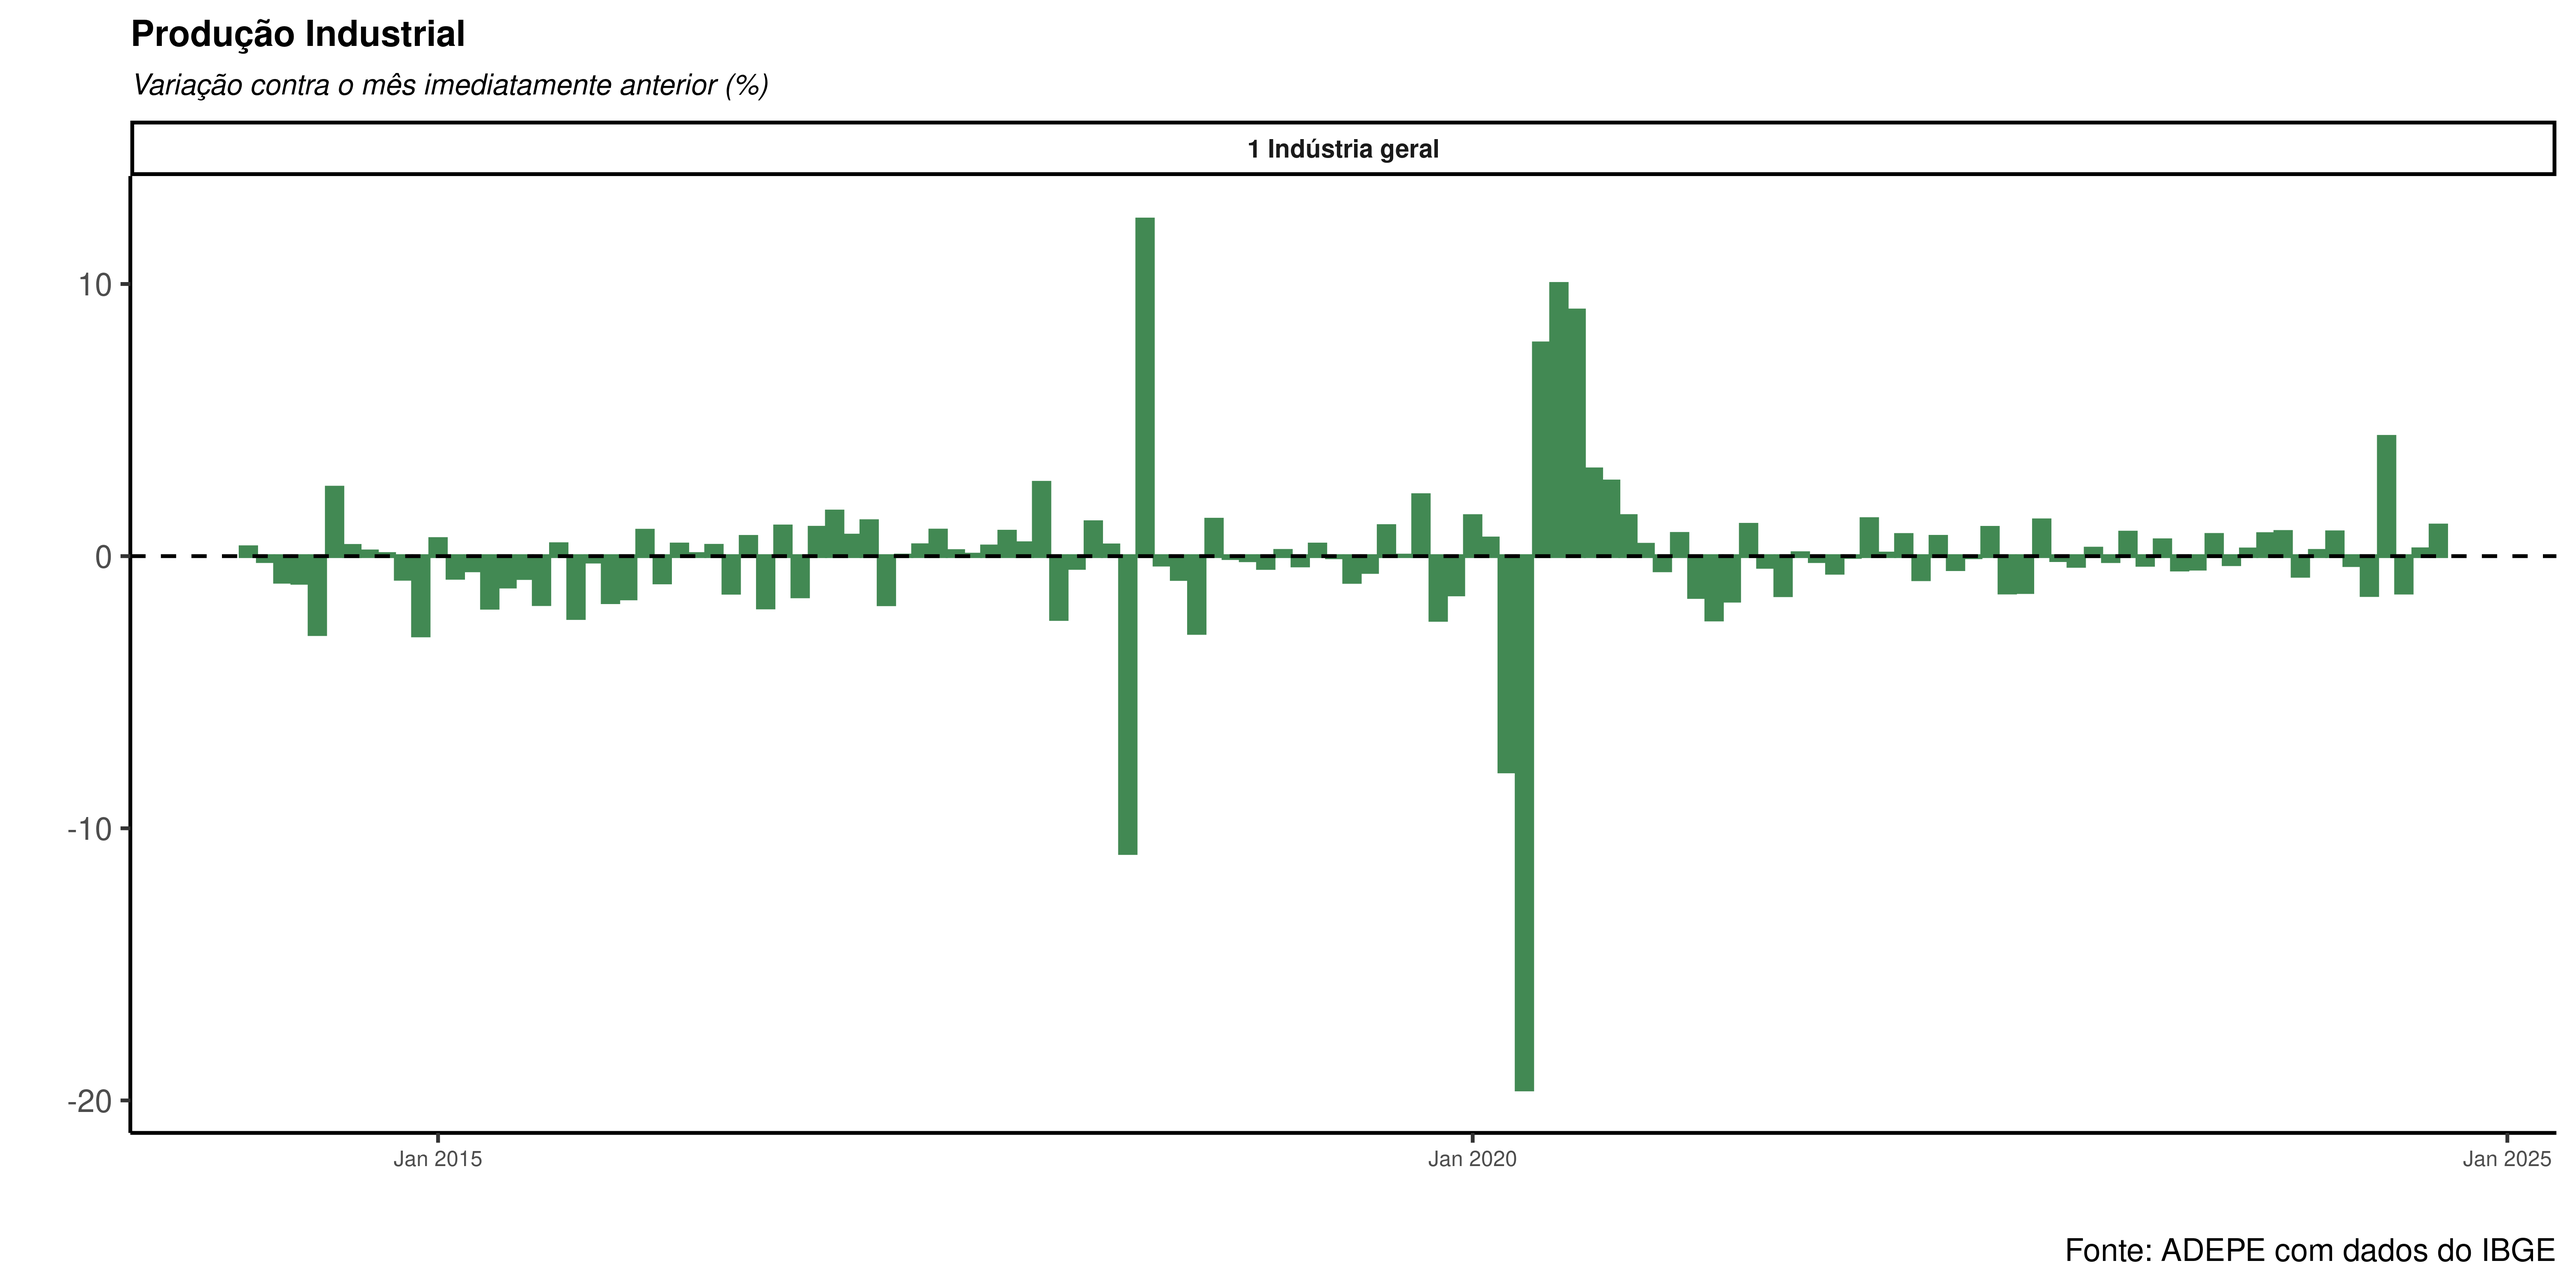
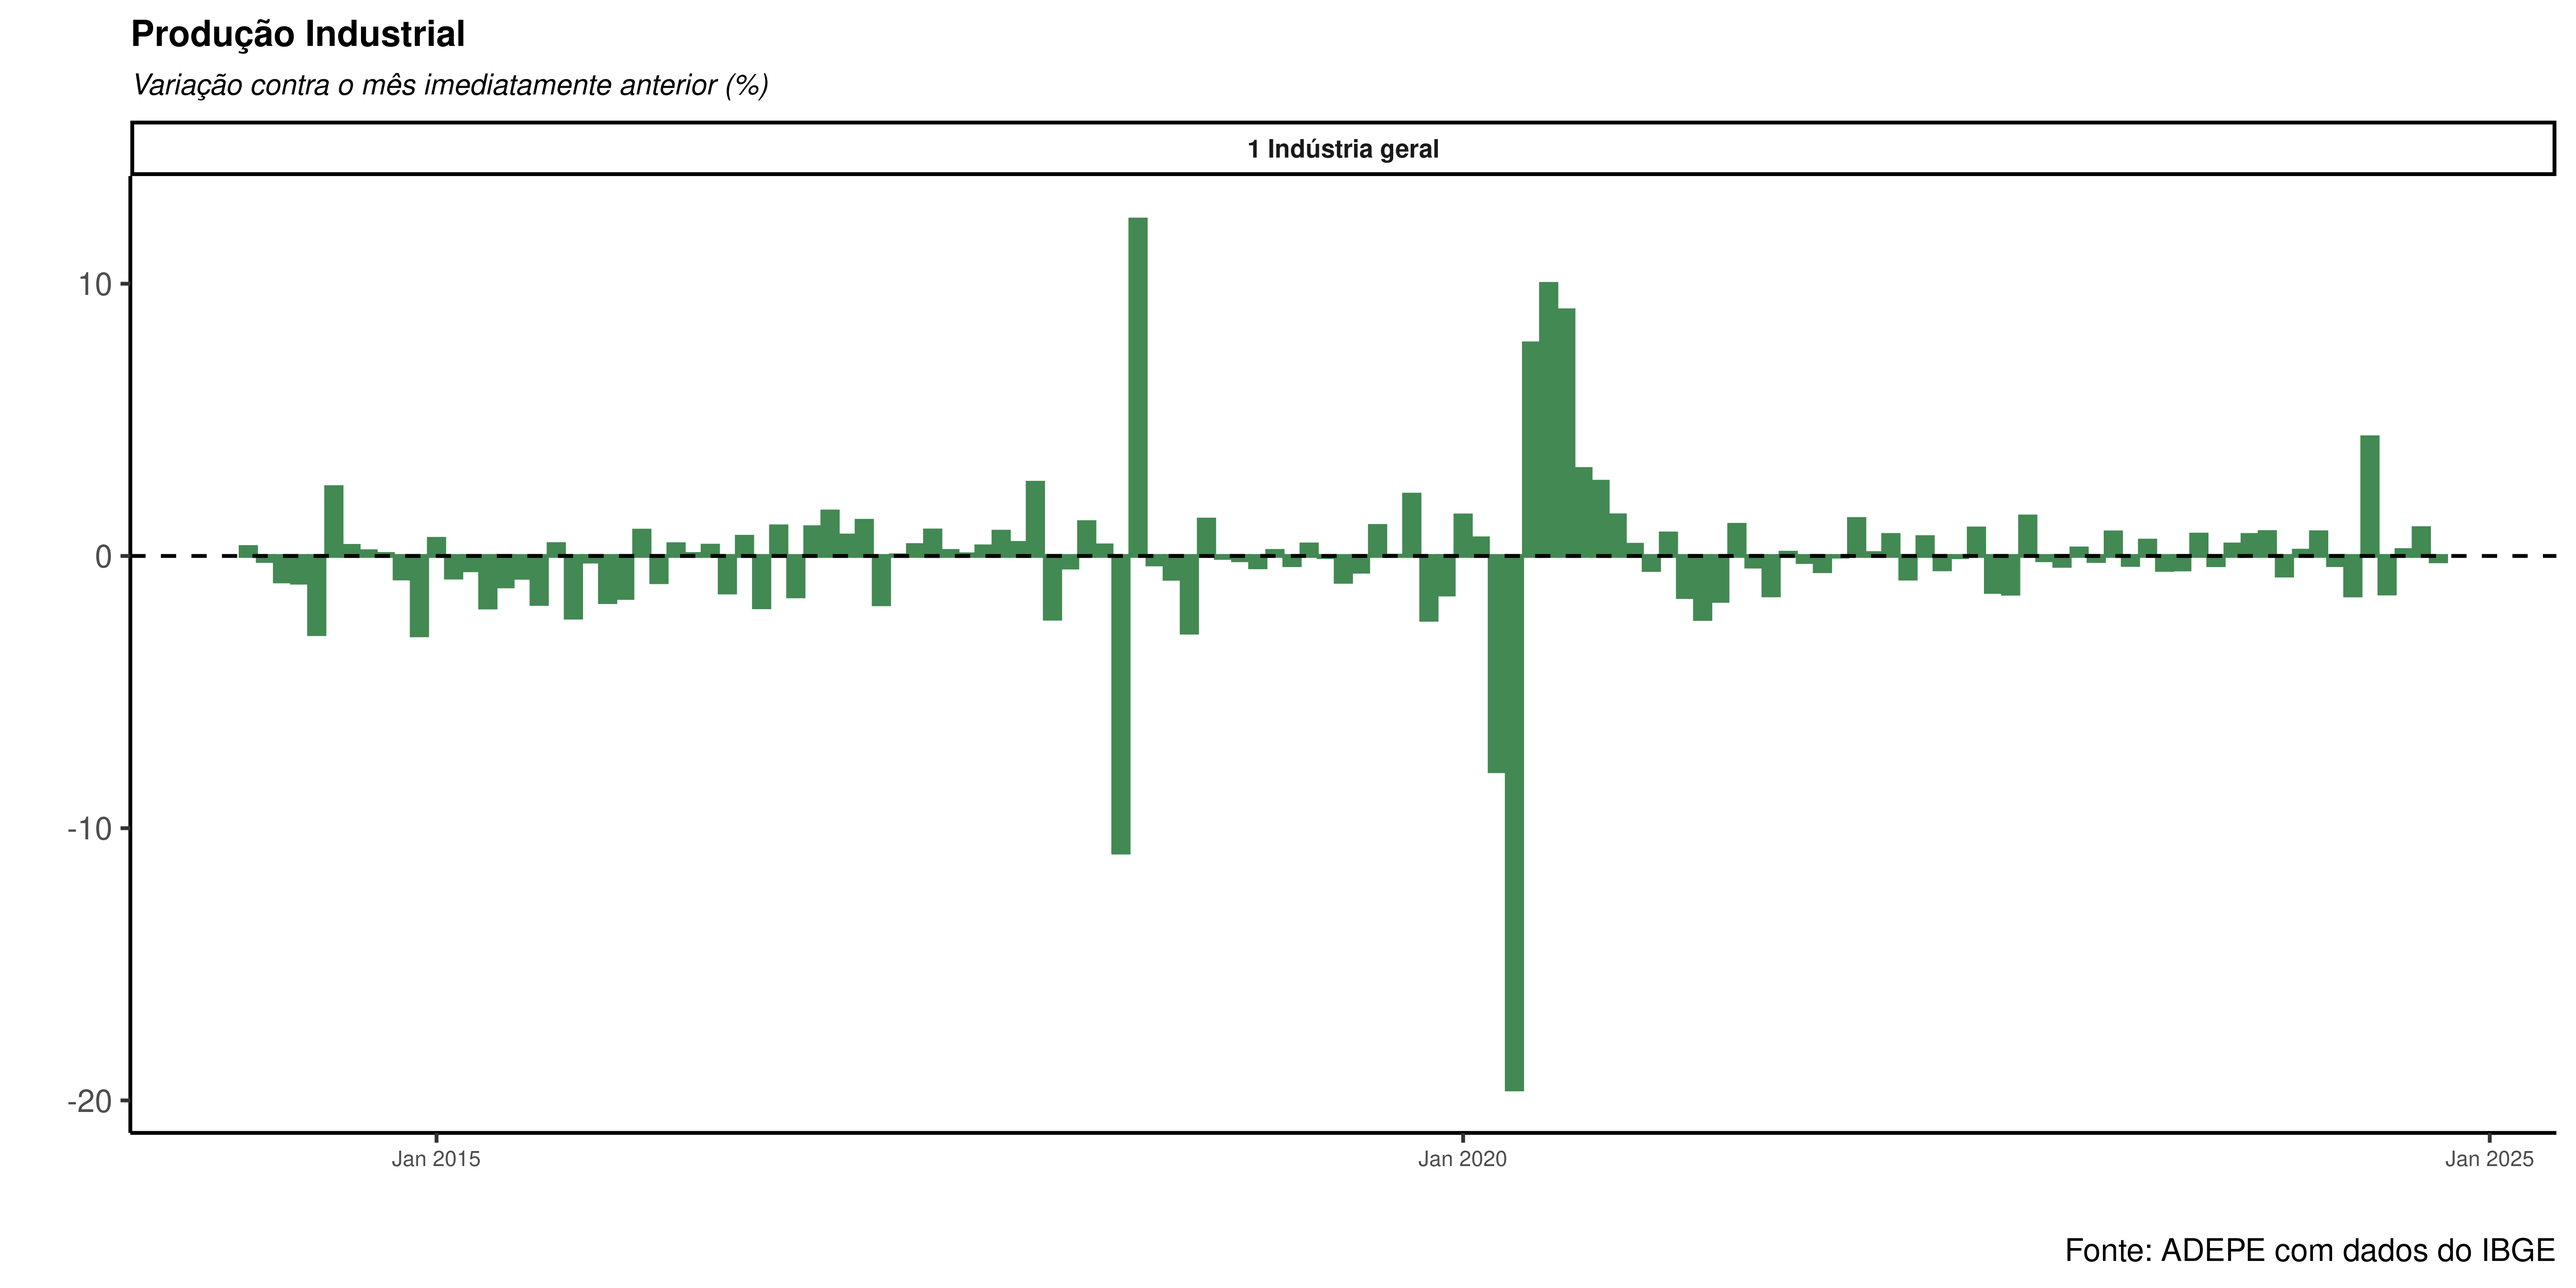
Atualização de relatório automatizada

diff --git a/pim/pim.html b/pim/pim.html
@@ -388,40 +388,40 @@ Núcleo de Dados <br><span style="font-size: 70%;">ADEPE<br><a href="https://git
 </thead>
 <tbody>
 <tr class="odd">
-<td style="text-align: center;">Apr 2024</td>
-<td style="text-align: center;">-0.33</td>
-<td style="text-align: center;">-3.70</td>
-<td style="text-align: center;">0.33</td>
-</tr>
-<tr class="even">
 <td style="text-align: center;">May 2024</td>
-<td style="text-align: center;">-1.43</td>
-<td style="text-align: center;">3.25</td>
-<td style="text-align: center;">-2.32</td>
+<td style="text-align: center;">-1.45</td>
+<td style="text-align: center;">3.27</td>
+<td style="text-align: center;">-2.34</td>
 </tr>
-<tr class="odd">
+<tr class="even">
 <td style="text-align: center;">Jun 2024</td>
-<td style="text-align: center;">4.38</td>
-<td style="text-align: center;">2.51</td>
-<td style="text-align: center;">4.97</td>
-</tr>
-<tr class="even">
-<td style="text-align: center;">Jul 2024</td>
-<td style="text-align: center;">-1.34</td>
-<td style="text-align: center;">-2.30</td>
-<td style="text-align: center;">-1.23</td>
+<td style="text-align: center;">4.36</td>
+<td style="text-align: center;">2.45</td>
+<td style="text-align: center;">4.96</td>
 </tr>
 <tr class="odd">
-<td style="text-align: center;">Aug 2024</td>
-<td style="text-align: center;">0.25</td>
-<td style="text-align: center;">0.98</td>
-<td style="text-align: center;">-0.09</td>
+<td style="text-align: center;">Jul 2024</td>
+<td style="text-align: center;">-1.38</td>
+<td style="text-align: center;">-2.34</td>
+<td style="text-align: center;">-1.25</td>
 </tr>
 <tr class="even">
+<td style="text-align: center;">Aug 2024</td>
+<td style="text-align: center;">0.22</td>
+<td style="text-align: center;">0.91</td>
+<td style="text-align: center;">-0.12</td>
+</tr>
+<tr class="odd">
 <td style="text-align: center;">Sep 2024</td>
-<td style="text-align: center;">1.12</td>
-<td style="text-align: center;">-1.30</td>
-<td style="text-align: center;">1.73</td>
+<td style="text-align: center;">1.02</td>
+<td style="text-align: center;">-1.44</td>
+<td style="text-align: center;">1.66</td>
+</tr>
+<tr class="even">
+<td style="text-align: center;">Oct 2024</td>
+<td style="text-align: center;">-0.20</td>
+<td style="text-align: center;">-0.20</td>
+<td style="text-align: center;">0.13</td>
 </tr>
 </tbody>
 </table>
@@ -449,40 +449,40 @@ Núcleo de Dados <br><span style="font-size: 70%;">ADEPE<br><a href="https://git
 </thead>
 <tbody>
 <tr class="odd">
-<td style="text-align: center;">Apr 2024</td>
-<td style="text-align: center;">8.35</td>
-<td style="text-align: center;">-1.51</td>
-<td style="text-align: center;">10.15</td>
-</tr>
-<tr class="even">
 <td style="text-align: center;">May 2024</td>
 <td style="text-align: center;">-1.18</td>
 <td style="text-align: center;">-0.07</td>
 <td style="text-align: center;">-1.37</td>
 </tr>
-<tr class="odd">
+<tr class="even">
 <td style="text-align: center;">Jun 2024</td>
 <td style="text-align: center;">3.24</td>
 <td style="text-align: center;">1.14</td>
 <td style="text-align: center;">3.63</td>
 </tr>
-<tr class="even">
+<tr class="odd">
 <td style="text-align: center;">Jul 2024</td>
 <td style="text-align: center;">6.12</td>
 <td style="text-align: center;">-0.39</td>
 <td style="text-align: center;">7.33</td>
 </tr>
-<tr class="odd">
+<tr class="even">
 <td style="text-align: center;">Aug 2024</td>
-<td style="text-align: center;">2.29</td>
+<td style="text-align: center;">2.28</td>
 <td style="text-align: center;">5.62</td>
 <td style="text-align: center;">1.72</td>
 </tr>
-<tr class="even">
+<tr class="odd">
 <td style="text-align: center;">Sep 2024</td>
-<td style="text-align: center;">3.44</td>
-<td style="text-align: center;">-2.89</td>
-<td style="text-align: center;">4.63</td>
+<td style="text-align: center;">3.36</td>
+<td style="text-align: center;">-3.05</td>
+<td style="text-align: center;">4.56</td>
+</tr>
+<tr class="even">
+<td style="text-align: center;">Oct 2024</td>
+<td style="text-align: center;">5.82</td>
+<td style="text-align: center;">-1.99</td>
+<td style="text-align: center;">7.23</td>
 </tr>
 </tbody>
 </table>
@@ -510,40 +510,40 @@ Núcleo de Dados <br><span style="font-size: 70%;">ADEPE<br><a href="https://git
 </thead>
 <tbody>
 <tr class="odd">
-<td style="text-align: center;">2024-04-01</td>
-<td style="text-align: center;">1.53</td>
-<td style="text-align: center;">7.29</td>
-<td style="text-align: center;">0.53</td>
-</tr>
-<tr class="even">
 <td style="text-align: center;">2024-05-01</td>
 <td style="text-align: center;">1.25</td>
 <td style="text-align: center;">6.27</td>
 <td style="text-align: center;">0.37</td>
 </tr>
-<tr class="odd">
+<tr class="even">
 <td style="text-align: center;">2024-06-01</td>
 <td style="text-align: center;">1.52</td>
 <td style="text-align: center;">5.42</td>
 <td style="text-align: center;">0.83</td>
 </tr>
-<tr class="even">
+<tr class="odd">
 <td style="text-align: center;">2024-07-01</td>
 <td style="text-align: center;">2.19</td>
 <td style="text-align: center;">4.74</td>
 <td style="text-align: center;">1.74</td>
 </tr>
-<tr class="odd">
+<tr class="even">
 <td style="text-align: center;">2024-08-01</td>
 <td style="text-align: center;">2.36</td>
 <td style="text-align: center;">4.94</td>
 <td style="text-align: center;">1.90</td>
 </tr>
-<tr class="even">
+<tr class="odd">
 <td style="text-align: center;">2024-09-01</td>
 <td style="text-align: center;">2.60</td>
-<td style="text-align: center;">3.85</td>
-<td style="text-align: center;">2.38</td>
+<td style="text-align: center;">3.83</td>
+<td style="text-align: center;">2.37</td>
+</tr>
+<tr class="even">
+<td style="text-align: center;">2024-10-01</td>
+<td style="text-align: center;">3.02</td>
+<td style="text-align: center;">3.67</td>
+<td style="text-align: center;">2.90</td>
 </tr>
 </tbody>
 </table>
